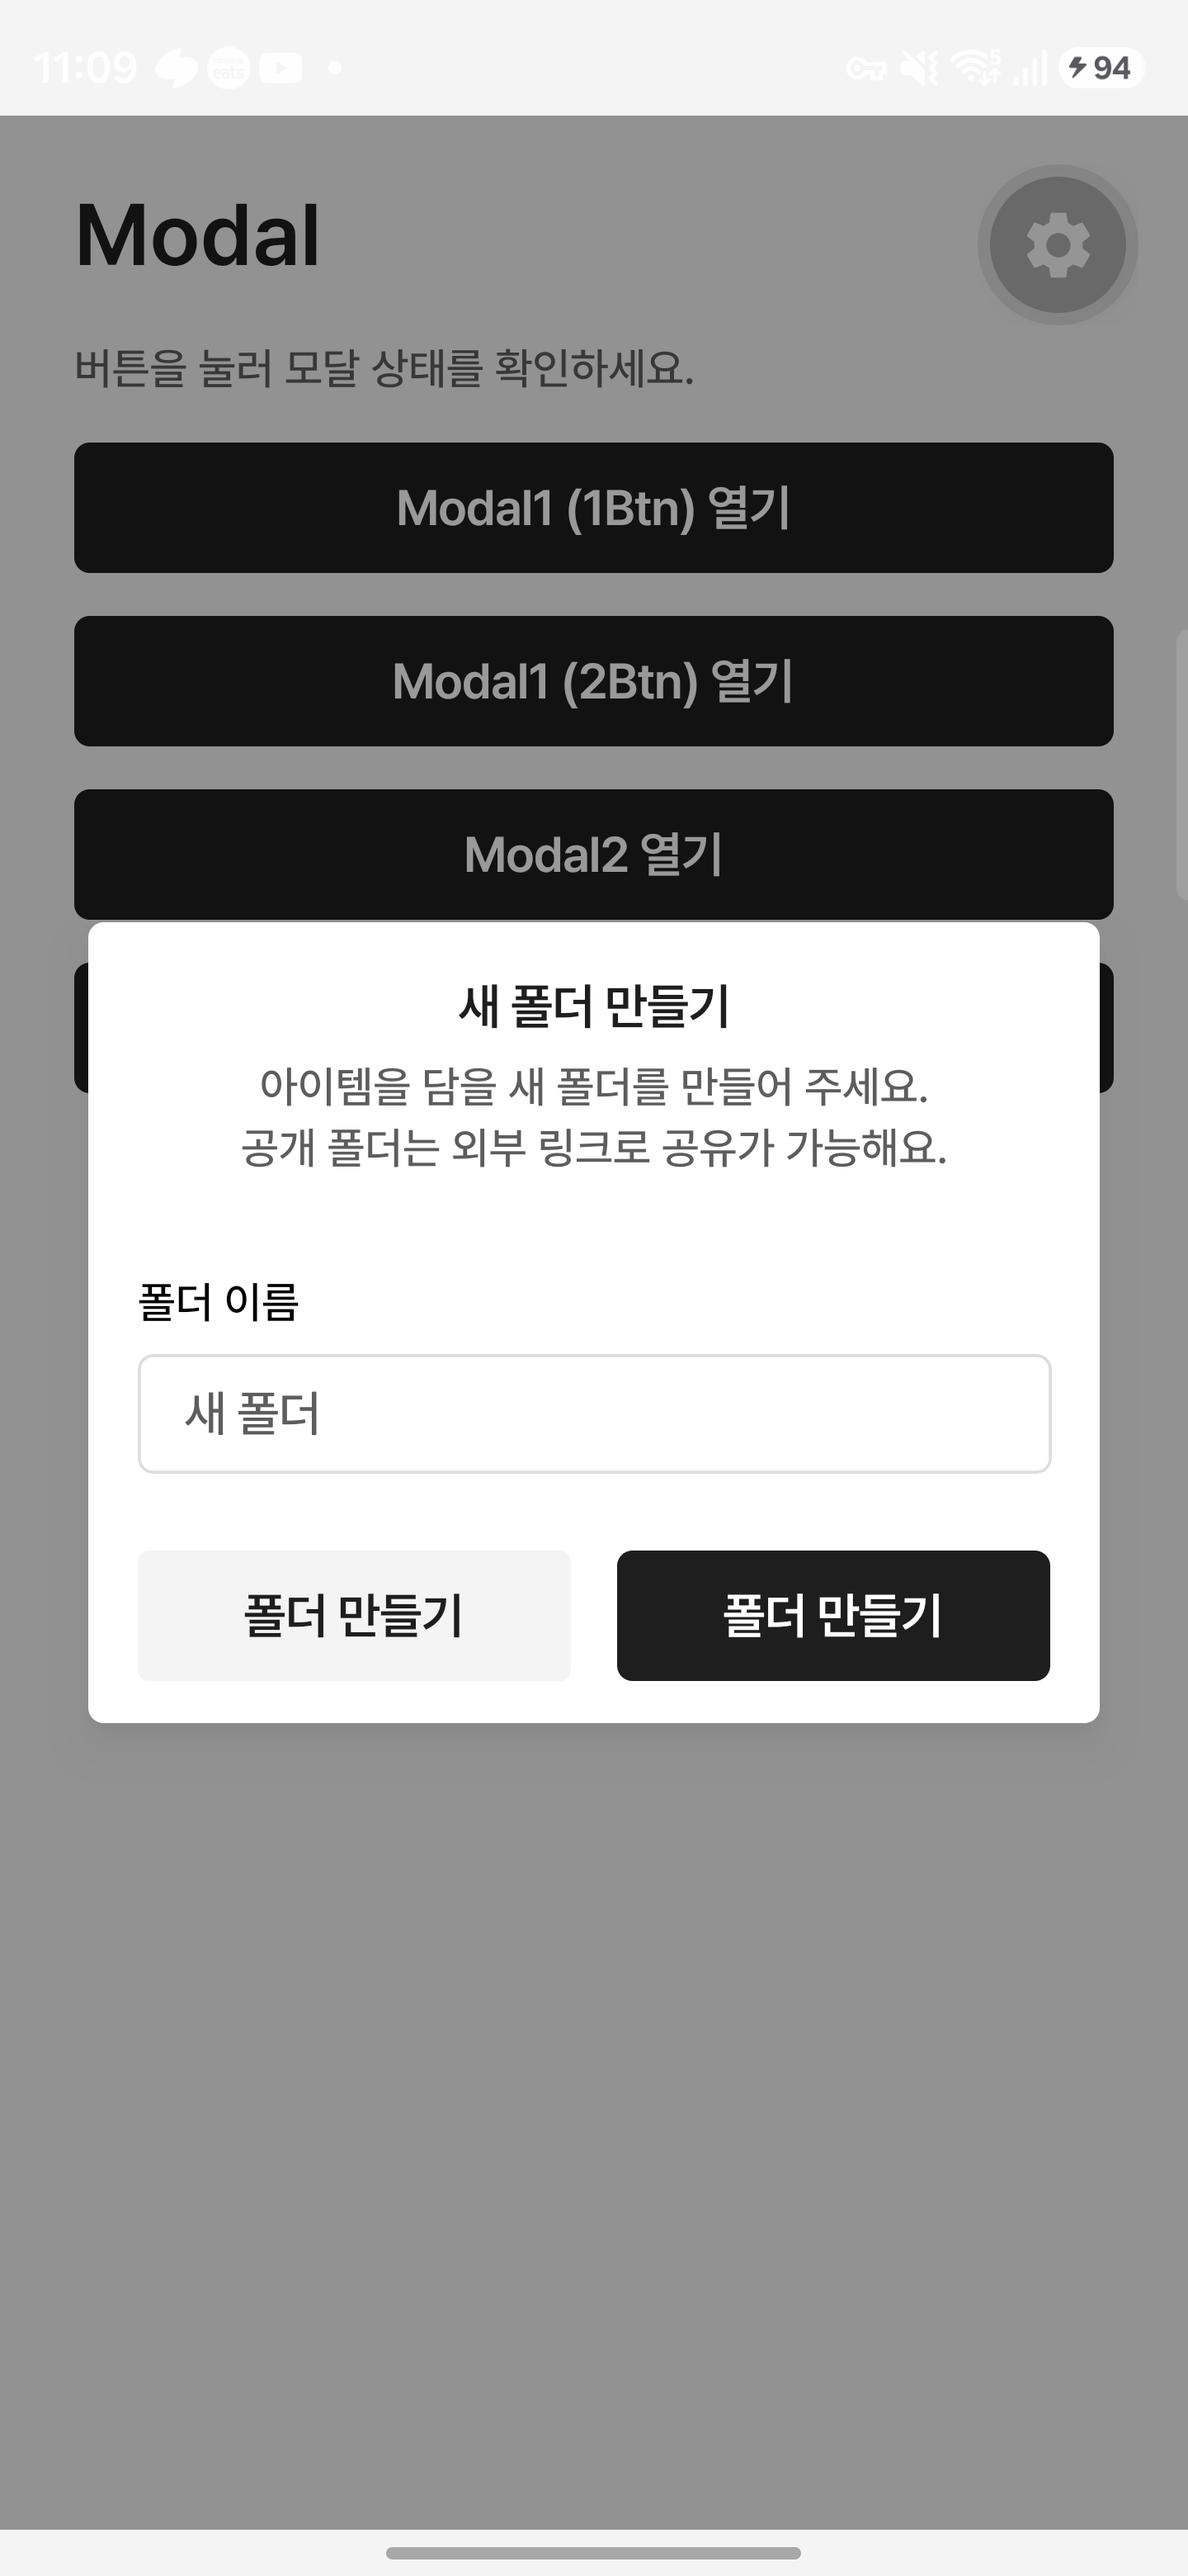
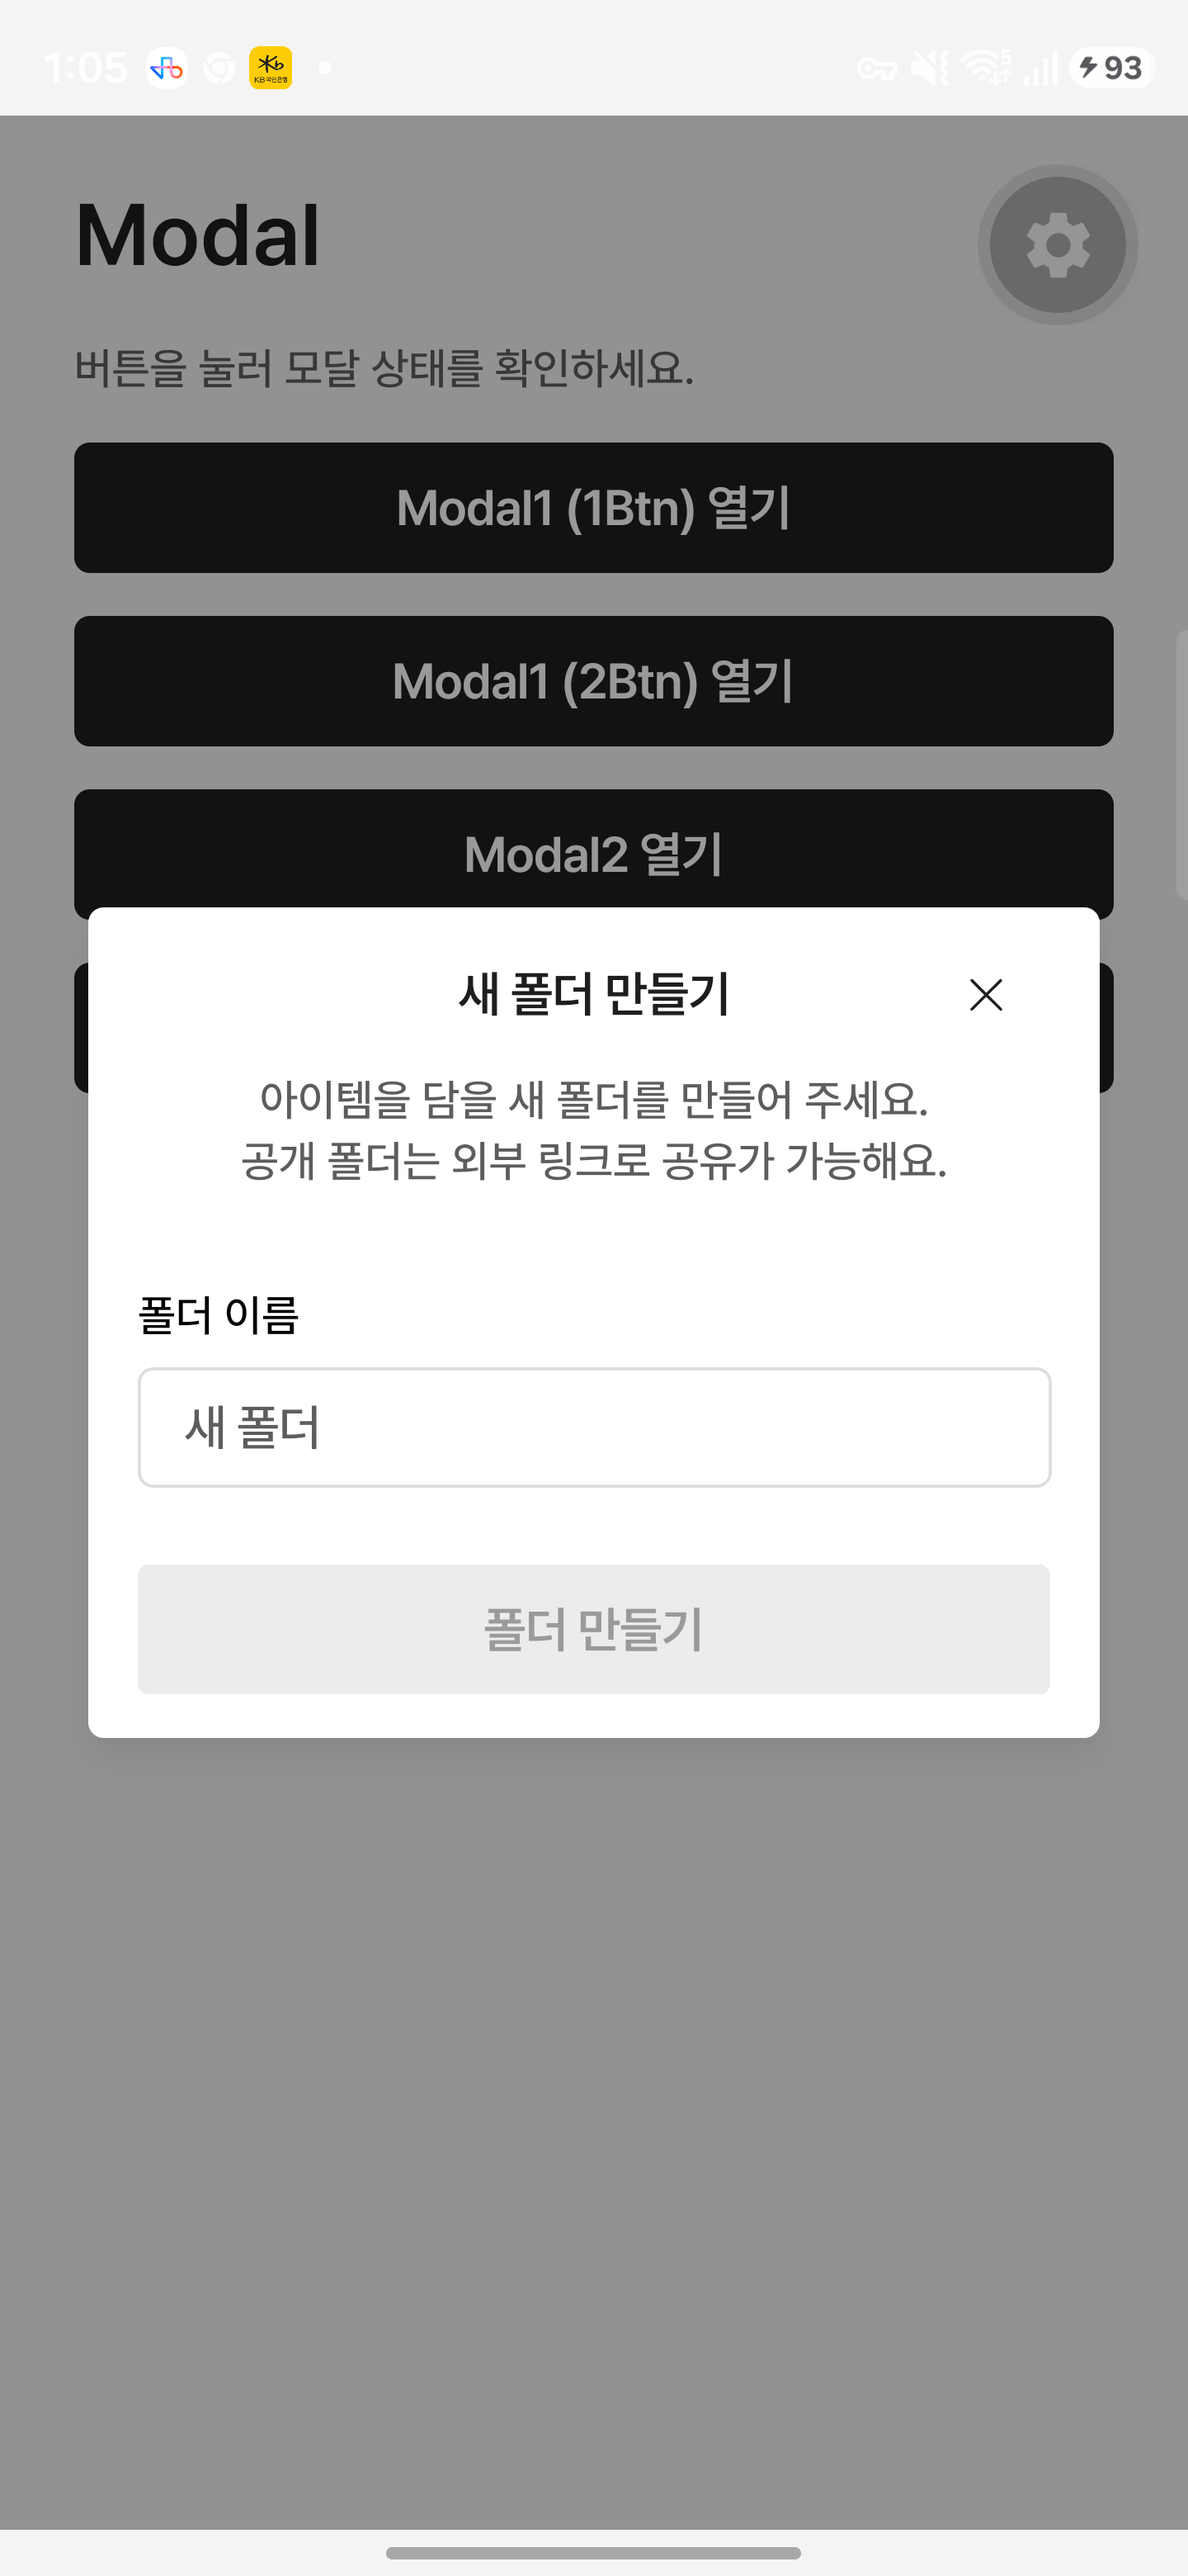
fix: Modal1 닫기 아이콘 표시 수정 (#12)

diff --git a/src/components/Modal.tsx b/src/components/Modal.tsx
@@ -117,7 +117,10 @@ export function Modal({
                   onPress={onClose}
                 >
                   <View className="size-4 items-center justify-center overflow-hidden">
-                    <StyledImage source={require("@/assets/images/icon-close.svg")} />
+                    <StyledImage
+                      className="size-3"
+                      source={require("@/assets/images/icon-close.svg")}
+                    />
                   </View>
                 </Pressable>
               </View>
